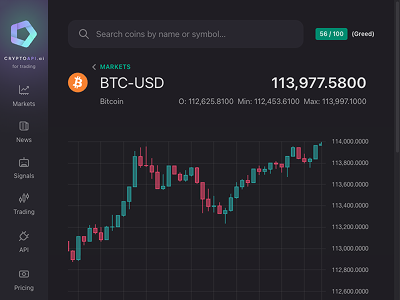
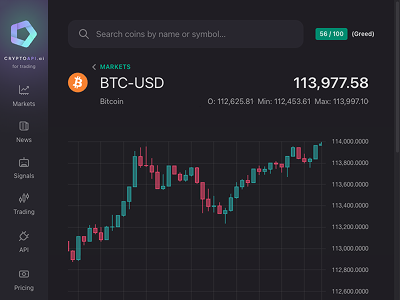
chore: update site domain

Changed region(s): [[0.66, 0.24, 0.93, 0.3], [0.45, 0.33, 0.93, 0.36]]

diff --git a/_includes/form/search-google.html b/_includes/form/search-google.html
@@ -1,5 +1,5 @@
 <form class="form is-search" action="https://www.google.com/search" method="get" role="search" target="_blank">
-  <input type="hidden" name="sitesearch" value="https://super-mark.ru">
+  <input type="hidden" name="sitesearch" value="https://design.magic-notebook.com">
   <input name="q" type="search" maxlength="255" tabindex="-1" autocomplete="off" value="" placeholder="{{ site.data.base.labels.search[page.lang] }}">
   <button class="btn is-search" type="submit" aria-label="{{ site.data.base.labels.search[page.lang] }}">
     {% include icon.html name="search" %}

diff --git a/README.md b/README.md
@@ -1,5 +1,5 @@
 # SuperMark: high quality design & development at a reasonable price
 
-🇺🇸 [SuperMark](https://super-mark.ru/en) is a trademark of Vladimir Nikishin, a webmaster and internet marketer.
+🇺🇸 [SuperMark](https://design.magic-notebook.com/en) is a trademark of Vladimir Nikishin, a webmaster and internet marketer.
 
-🇷🇺 [SuperMark](https://super-mark.ru/) – торговая марка Владимира Никишина, веб-мастера и интернет-маркетолога.
+🇷🇺 [SuperMark](https://design.magic-notebook.com/) – торговая марка Владимира Никишина, веб-мастера и интернет-маркетолога.

diff --git a/ru/_good-advice/_book.md b/ru/_good-advice/_book.md
@@ -1345,4 +1345,4 @@ Freedom!
 ## Бонус
 
 - Прочитайте мою книгу о любви – «Роман в SMS» – история любви из прошлой жизни: litres.ru/author/vladimir-nikishin-18565332.
-- Посмотрите мои работы в области UI- и веб-дизайна: super-mark.ru.
+- Посмотрите мои работы в области UI- и веб-дизайна: design.magic-notebook.com.

diff --git a/src/components/modal/ru.md b/src/components/modal/ru.md
@@ -46,7 +46,7 @@ dialog.modal#my-dialog
         <use xlink:href="/assets/img/base/icons/sprite.svg#icon-search"></use>
       </svg>
     </button>
-    <input type="hidden" name="sitesearch" value="https://super-mark.ru">
+    <input type="hidden" name="sitesearch" value="https://design.magic-notebook.com">
   </form>
 </dialog>
 
